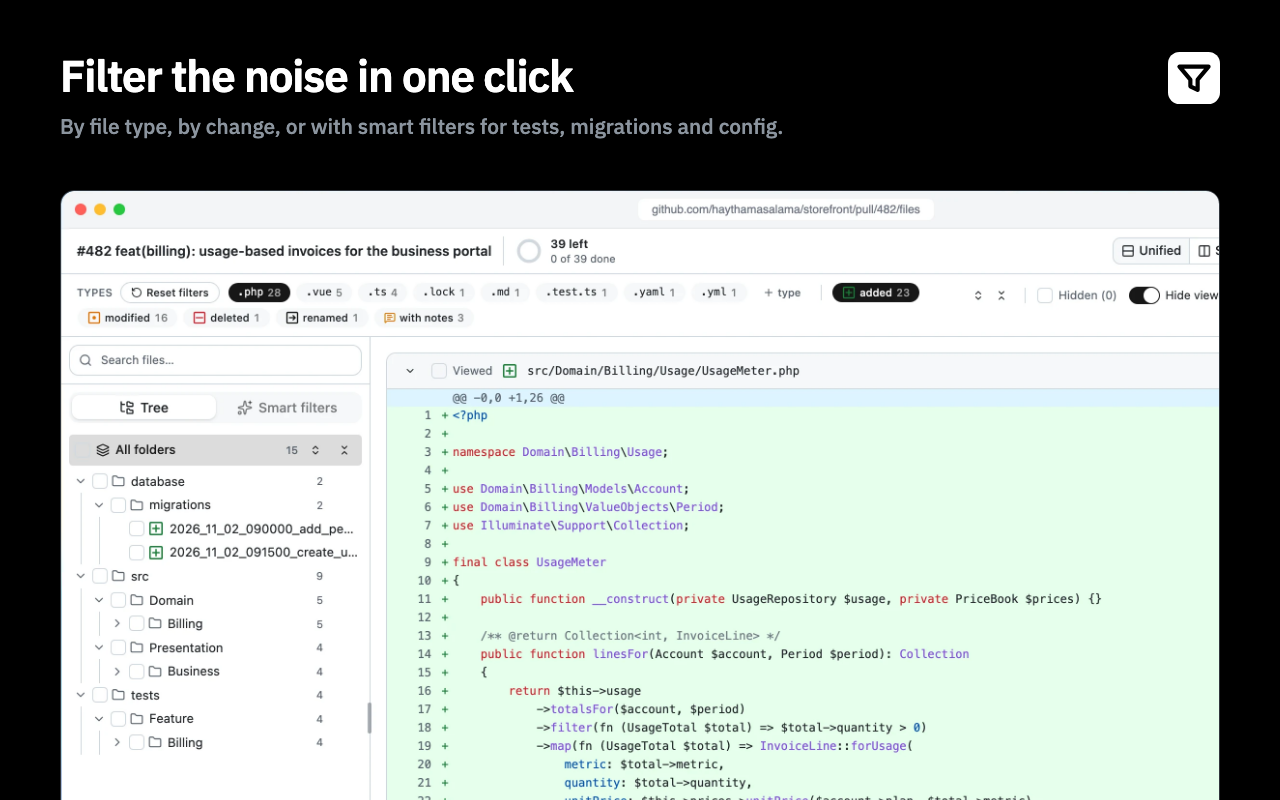
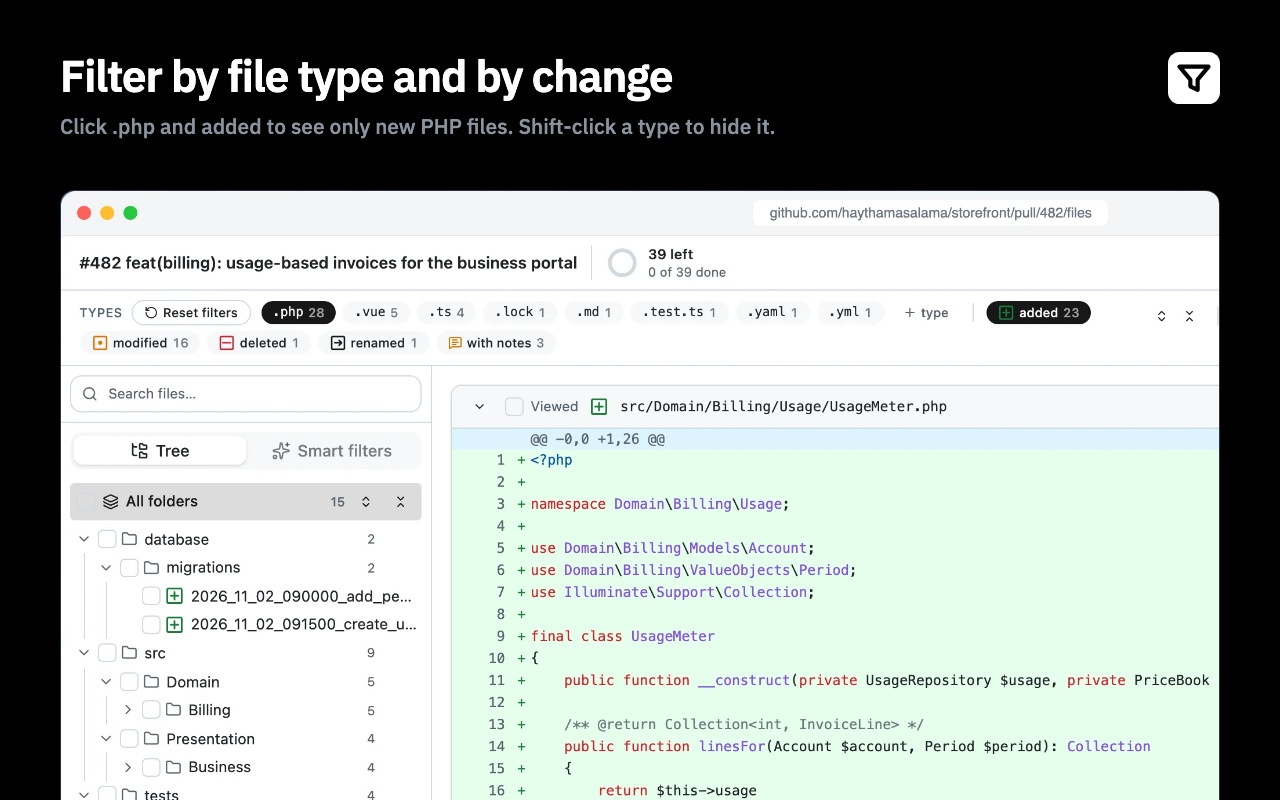
docs: reorder store screenshots around five features

diff --git a/BRAND.md b/BRAND.md
@@ -157,13 +157,13 @@ The signature move of the brand: a headline written as a two-line diff.
 
 All media is generated from a demo pull request by `tools/capture` (`pnpm --filter @pr-sift/capture capture`).
 
-| Asset                                            | Size                                                 | Where                  |
-| :----------------------------------------------- | :--------------------------------------------------- | :--------------------- |
-| Screenshots `media/screenshots/*.webp`           | 3200 × 2120                                          | Site, README, docs     |
-| Videos `media/videos/*.mp4` with a poster `.jpg` | 1600 × 1000, recorded at 2× and zoomed on the action | Site                   |
-| Share image `media/og.png`                       | 1200 × 630 at 2×                                     | Open Graph and X cards |
-| Store promo tiles `media/store/promo-*.png`      | 440 × 280 and 1400 × 560                             | Chrome Web Store       |
-| Store screenshots `media/store/screenshot-*.png` | 1280 × 800, a headline over a cropped screenshot     | Chrome Web Store       |
+| Asset                                            | Size                                                                                                                  | Where                  |
+| :----------------------------------------------- | :-------------------------------------------------------------------------------------------------------------------- | :--------------------- |
+| Screenshots `media/screenshots/*.webp`           | 3200 × 2120                                                                                                           | Site, README, docs     |
+| Videos `media/videos/*.mp4` with a poster `.jpg` | 1600 × 1000, recorded at 2× and zoomed on the action                                                                  | Site                   |
+| Share image `media/og.png`                       | 1200 × 630 at 2×                                                                                                      | Open Graph and X cards |
+| Store promo tiles `media/store/promo-*.png`      | 440 × 280 and 1400 × 560                                                                                              | Chrome Web Store       |
+| Store screenshots `media/store/screenshot-*.png` | 1280 × 800, a headline over a cropped screenshot; the first is the diff headline over GitHub and PR Sift side by side | Chrome Web Store       |
 
 - Show the extension on a real-looking pull request. Every screenshot, video, poster and README GIF has a light file
   and a `-dark` file (dark ones sit on the Tahoe Dark wallpaper). The site shows the one that matches its theme and only

diff --git a/docs/STORE_LISTING.md b/docs/STORE_LISTING.md
@@ -48,16 +48,16 @@ Free, with public source code. No account, no server, no analytics. PR Sift only
 Not affiliated with GitHub.
 ```
 
-| Field              | Value                                                                       |
-| ------------------ | --------------------------------------------------------------------------- |
-| Category           | Developer Tools                                                             |
-| Language           | English                                                                     |
-| Store icon         | `apps/extension/icons/icon-128.png`                                         |
-| Screenshots        | `media/store/screenshot-1-review.png` to `screenshot-5-dark.png` (1280x800) |
-| Small promo tile   | `media/store/promo-small-440x280.png`                                       |
-| Marquee promo tile | `media/store/promo-marquee-1400x560.png`                                    |
-| Homepage URL       | https://pr-sift.haythamasalama.me/                                          |
-| Support URL        | https://github.com/haythamasalama/pr-sift/issues                            |
+| Field              | Value                                                                                                  |
+| ------------------ | ------------------------------------------------------------------------------------------------------ |
+| Category           | Developer Tools                                                                                        |
+| Language           | English                                                                                                |
+| Store icon         | `apps/extension/icons/icon-128.png`                                                                    |
+| Screenshots        | `media/store/screenshot-1-before-after.png` to `screenshot-5-split-dark.png` (1280x800), in this order |
+| Small promo tile   | `media/store/promo-small-440x280.png`                                                                  |
+| Marquee promo tile | `media/store/promo-marquee-1400x560.png`                                                               |
+| Homepage URL       | https://pr-sift.haythamasalama.me/                                                                     |
+| Support URL        | https://github.com/haythamasalama/pr-sift/issues                                                       |
 
 ## Privacy tab
 
